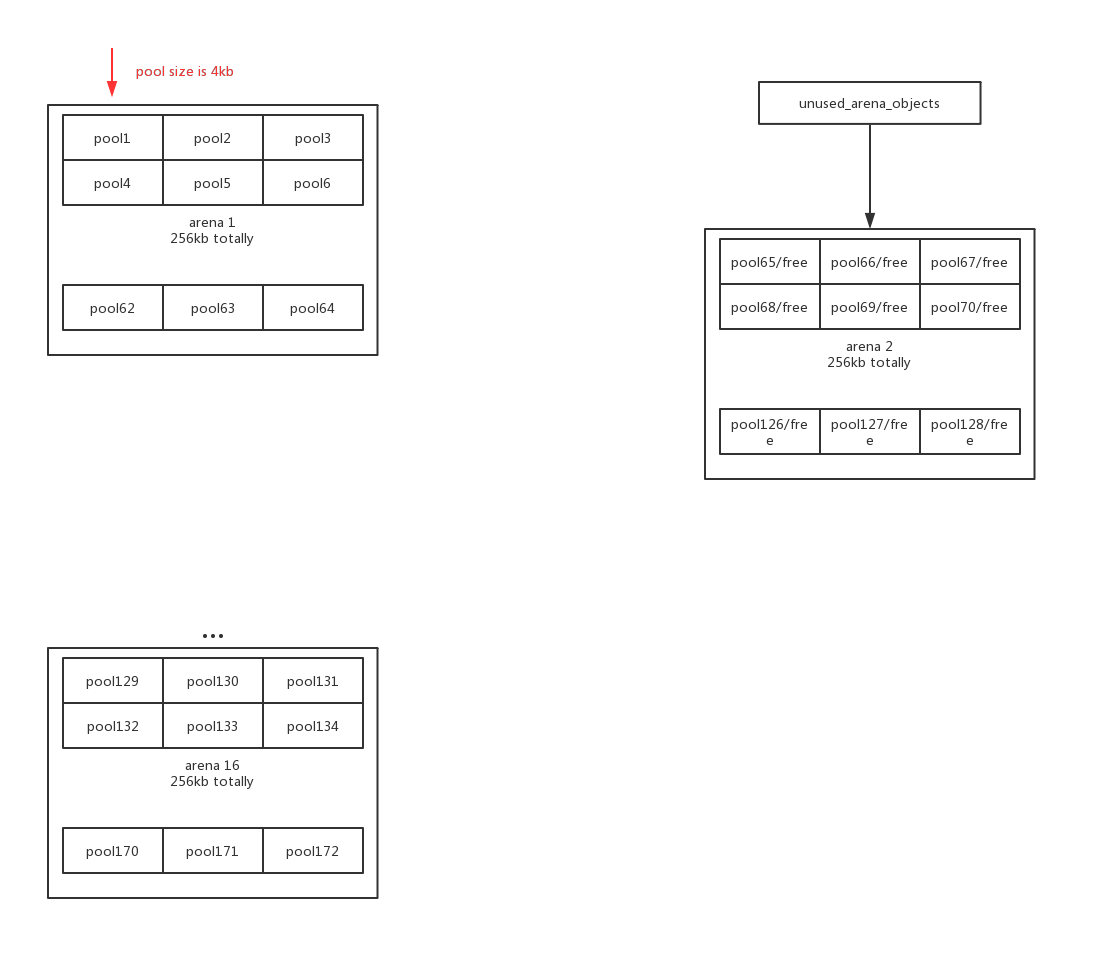
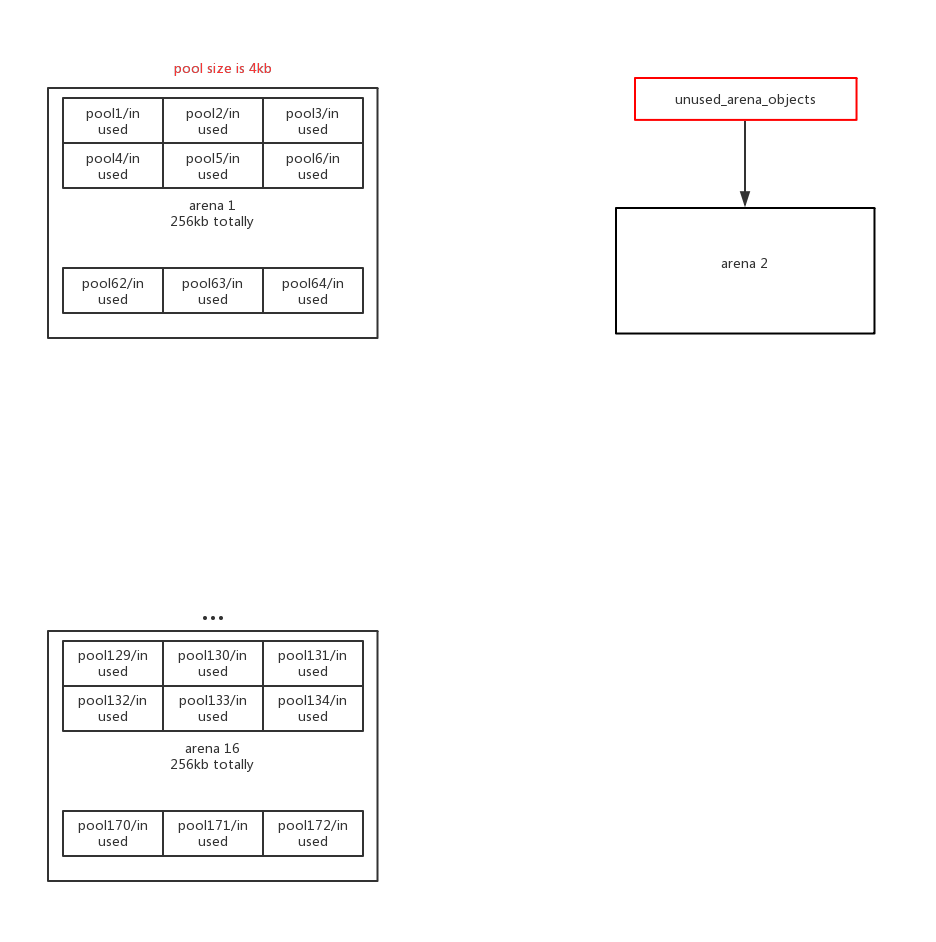
mm done in README

Changed region(s): [[0.6197, 0.0616, 0.9605, 0.4926], [0.031, 0.0616, 0.4028, 0.3694], [0.031, 0.6465, 0.4028, 0.9544]]

diff --git a/Interpreter/memory_management/memory_management_cn.md b/Interpreter/memory_management/memory_management_cn.md
@@ -438,6 +438,8 @@ step4, 返回
 
 如果 **arena** 中的所有的 **pool** 都被释放了, 那么这个 **arena** 会被移到一个名为 **unused_arena_objects** 的单链表下
 
+并且这个 **arena** 中的所有的 **pools** 占用的空间(一共 256kb)会被释放, 但是 **arena** 这个 C 语言中的结构体不会被释放
+
 在 Python 2.5 之前, **arena** 申请过的空间是从来不会被释放的, 这个策略是在 Python 2.5 之后引入的
 
 ![arena_orgnize_overview_part21](https://github.com/zpoint/CPython-Internals/blob/master/Interpreter/memory_management/arena_orgnize_overview_part21.png)
@@ -445,6 +447,8 @@ step4, 返回
 如果所有的 **arenas** 都用完了, 下一次申请空间我们会需要一个新的 **arena**
 
 ![arena_orgnize_overview_part22](https://github.com/zpoint/CPython-Internals/blob/master/Interpreter/memory_management/arena_orgnize_overview_part22.png)
+
+python 的内存管理机制会重新像操作系统申请 256kb 的空闲空间, 并且这部分新申请的空间会挂到 **unused_arena_objects** 中的第一个 **arena** C 结构体中
 
 **unused_arena_objects** 中的第一个 **arena** 会被返回, 并且此时 **unused_arena_objects** 会成为一个空指针
 

diff --git a/Interpreter/memory_management/memory_management.md b/Interpreter/memory_management/memory_management.md
@@ -438,13 +438,17 @@ initially, there're 16 **arenas**
 
 if all the **pools** in the **arena** are freed, the **arena** will be moved to a single linked list named **unused_arena_objects**
 
-prior to Python 2.5, arenas were never free()'ed. this strategy is used since Python 2.5
+and those **pools** in the **arena**(256kb totally) will be freed, **arena** in a C structure, thist structure will not be freed
+
+prior to Python 2.5, **pools** in arenas were never free()'ed. this strategy is used since Python 2.5
 
 ![arena_orgnize_overview_part21](https://github.com/zpoint/CPython-Internals/blob/master/Interpreter/memory_management/arena_orgnize_overview_part21.png)
 
 if all **arenas** are used up, and we request a new **arena**
 
 ![arena_orgnize_overview_part22](https://github.com/zpoint/CPython-Internals/blob/master/Interpreter/memory_management/arena_orgnize_overview_part22.png)
+
+python's allocator will malloc 256kb from operating system, and the newly malloced 256kb memory block will be linked to the **arena** structure in the first **unused_arena_objects**
 
 the first **arena** in the **unused_arena_objects** will be taken, and **unused_arena_objects** will be an empty pointer
 

diff --git a/README.md b/README.md
@@ -54,7 +54,7 @@ Trying to illustrate every detail of cpython implementation
 
  - [x] [gil(Global Interpreter Lock)](https://github.com/zpoint/CPython-Internals/blob/master/Interpreter/gil/gil.md)
  - [x] [gc(Garbage Collection)](https://github.com/zpoint/CPython-Internals/blob/master/Interpreter/gc/gc.md)
- - [ ] [memory management](https://github.com/zpoint/CPython-Internals/blob/master/Interpreter/memory_management/memory_management.md)
+ - [x] [memory management](https://github.com/zpoint/CPython-Internals/blob/master/Interpreter/memory_management/memory_management.md)
  - [x] [descr(how does attribute access work/`__get__`/`__set__`)](https://github.com/zpoint/CPython-Internals/blob/master/Interpreter/descr/descr.md)
  - [x] [exception(exception handling)](https://github.com/zpoint/CPython-Internals/blob/master/Interpreter/exception/exception.md)
  - [x] [module(how does import work)](https://github.com/zpoint/CPython-Internals/blob/master/Interpreter/module/module.md)

diff --git a/README_CN.md b/README_CN.md
@@ -53,7 +53,7 @@
 
  - [x] [gil(全局解释器锁)](https://github.com/zpoint/CPython-Internals/blob/master/Interpreter/gil/gil_cn.md)
  - [x] [gc(垃圾回收机制)](https://github.com/zpoint/CPython-Internals/blob/master/Interpreter/gc/gc_cn.md)
- - [ ] [memory management](https://github.com/zpoint/CPython-Internals/blob/master/Interpreter/memory_management/memory_management_cn.md)
+ - [x] [memory management(内存管理机制)](https://github.com/zpoint/CPython-Internals/blob/master/Interpreter/memory_management/memory_management_cn.md)
  - [x] [descr(访问(类/实例)属性时发生了什么/`__get__`/`__set__`)](https://github.com/zpoint/CPython-Internals/blob/master/Interpreter/descr/descr_cn.md)
  - [x] [exception(异常处理机制)](https://github.com/zpoint/CPython-Internals/blob/master/Interpreter/exception/exception_cn.md)
  - [x] [module(import实现机制)](https://github.com/zpoint/CPython-Internals/blob/master/Interpreter/module/module_cn.md)
